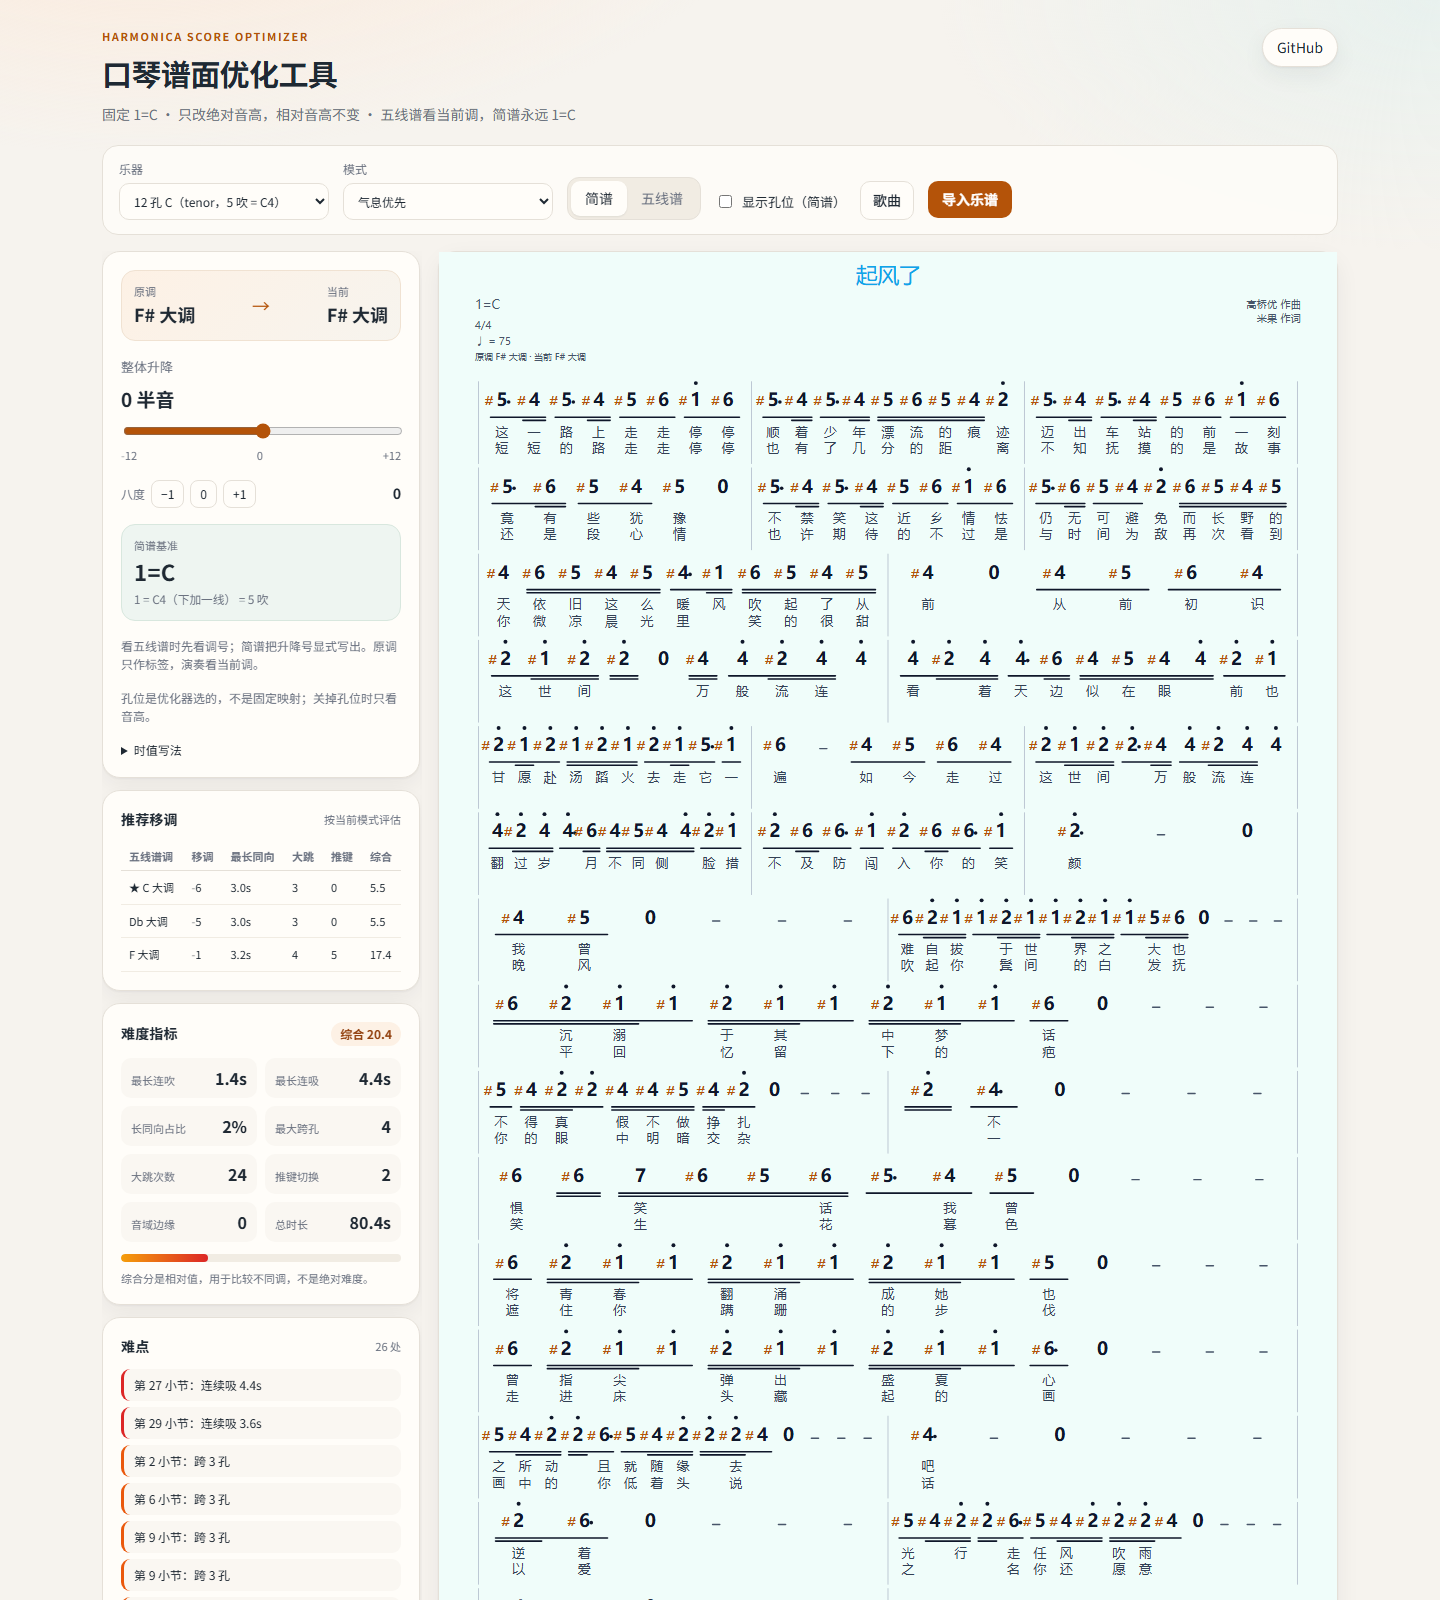
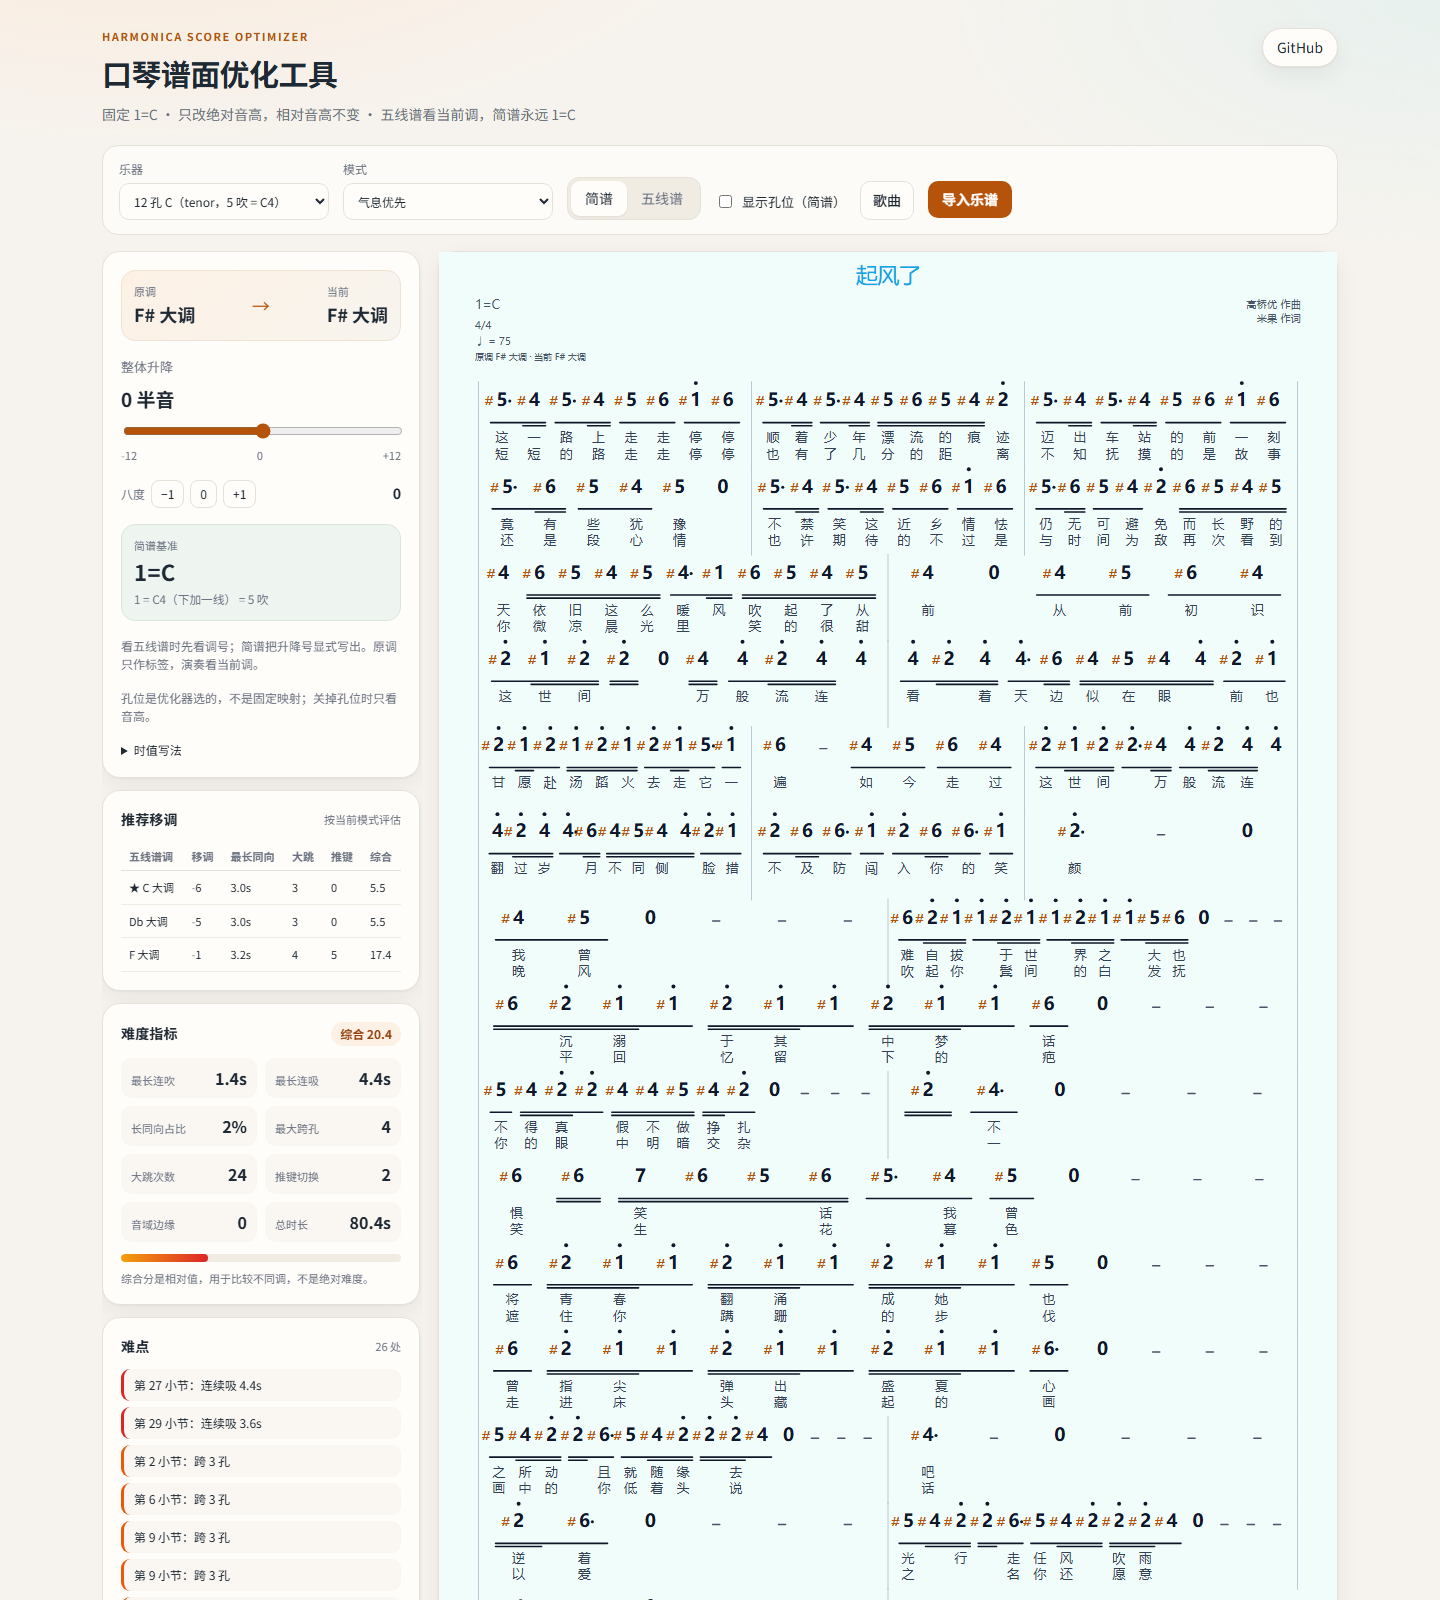
fix: left rail horizontal overflow and note dot spacing

diff --git a/src/components/JianpuView.tsx b/src/components/JianpuView.tsx
@@ -20,9 +20,9 @@ const MEASURE_PAD = 8
 const NOTE_BASE = 22
 const NOTE_FONT = 20
 const LYRIC_FONT = 15
-const LYRIC_OFFSET = 34
+const LYRIC_OFFSET = 40
 const LYRIC_GAP = 18
-const BEAM_OFFSET = 12
+const BEAM_OFFSET = 18
 const BEAM_GAP = 3.5
 
 type RawEvent =
@@ -310,7 +310,7 @@ export function JianpuView({ score, transpose, sig, fingerings, showTab }: Props
                               cy={
                                 jp.octave > 0
                                   ? layout.baseline - 26 - dotIndex * 4.5
-                                  : layout.baseline + 4 + dotIndex * 4.5
+                                  : layout.baseline + 8 + dotIndex * 5
                               }
                               r={2.2}
                               fill="#0f172a"
@@ -340,9 +340,9 @@ export function JianpuView({ score, transpose, sig, fingerings, showTab }: Props
                           </text>
                           {token.dotted && (
                             <circle
-                              cx={x + NOTE_FONT * 0.38}
-                              cy={layout.baseline - 5}
-                              r={2}
+                              cx={x + NOTE_FONT * 0.44}
+                              cy={layout.baseline - 6}
+                              r={1.7}
                               fill="#0f172a"
                             />
                           )}

diff --git a/src/styles.css b/src/styles.css
@@ -179,7 +179,14 @@ h1 {
   top: 16px;
   max-height: calc(100vh - 32px);
   overflow-y: auto;
+  overflow-x: hidden;
   padding-right: 2px;
+  min-width: 0;
+}
+
+.left-rail > * {
+  min-width: 0;
+  max-width: 100%;
 }
 
 .panel {
@@ -243,6 +250,7 @@ h1 {
 
 .recommendations .table-wrap {
   overflow-x: auto;
+  max-width: 100%;
 }
 
 .recommendations table {
